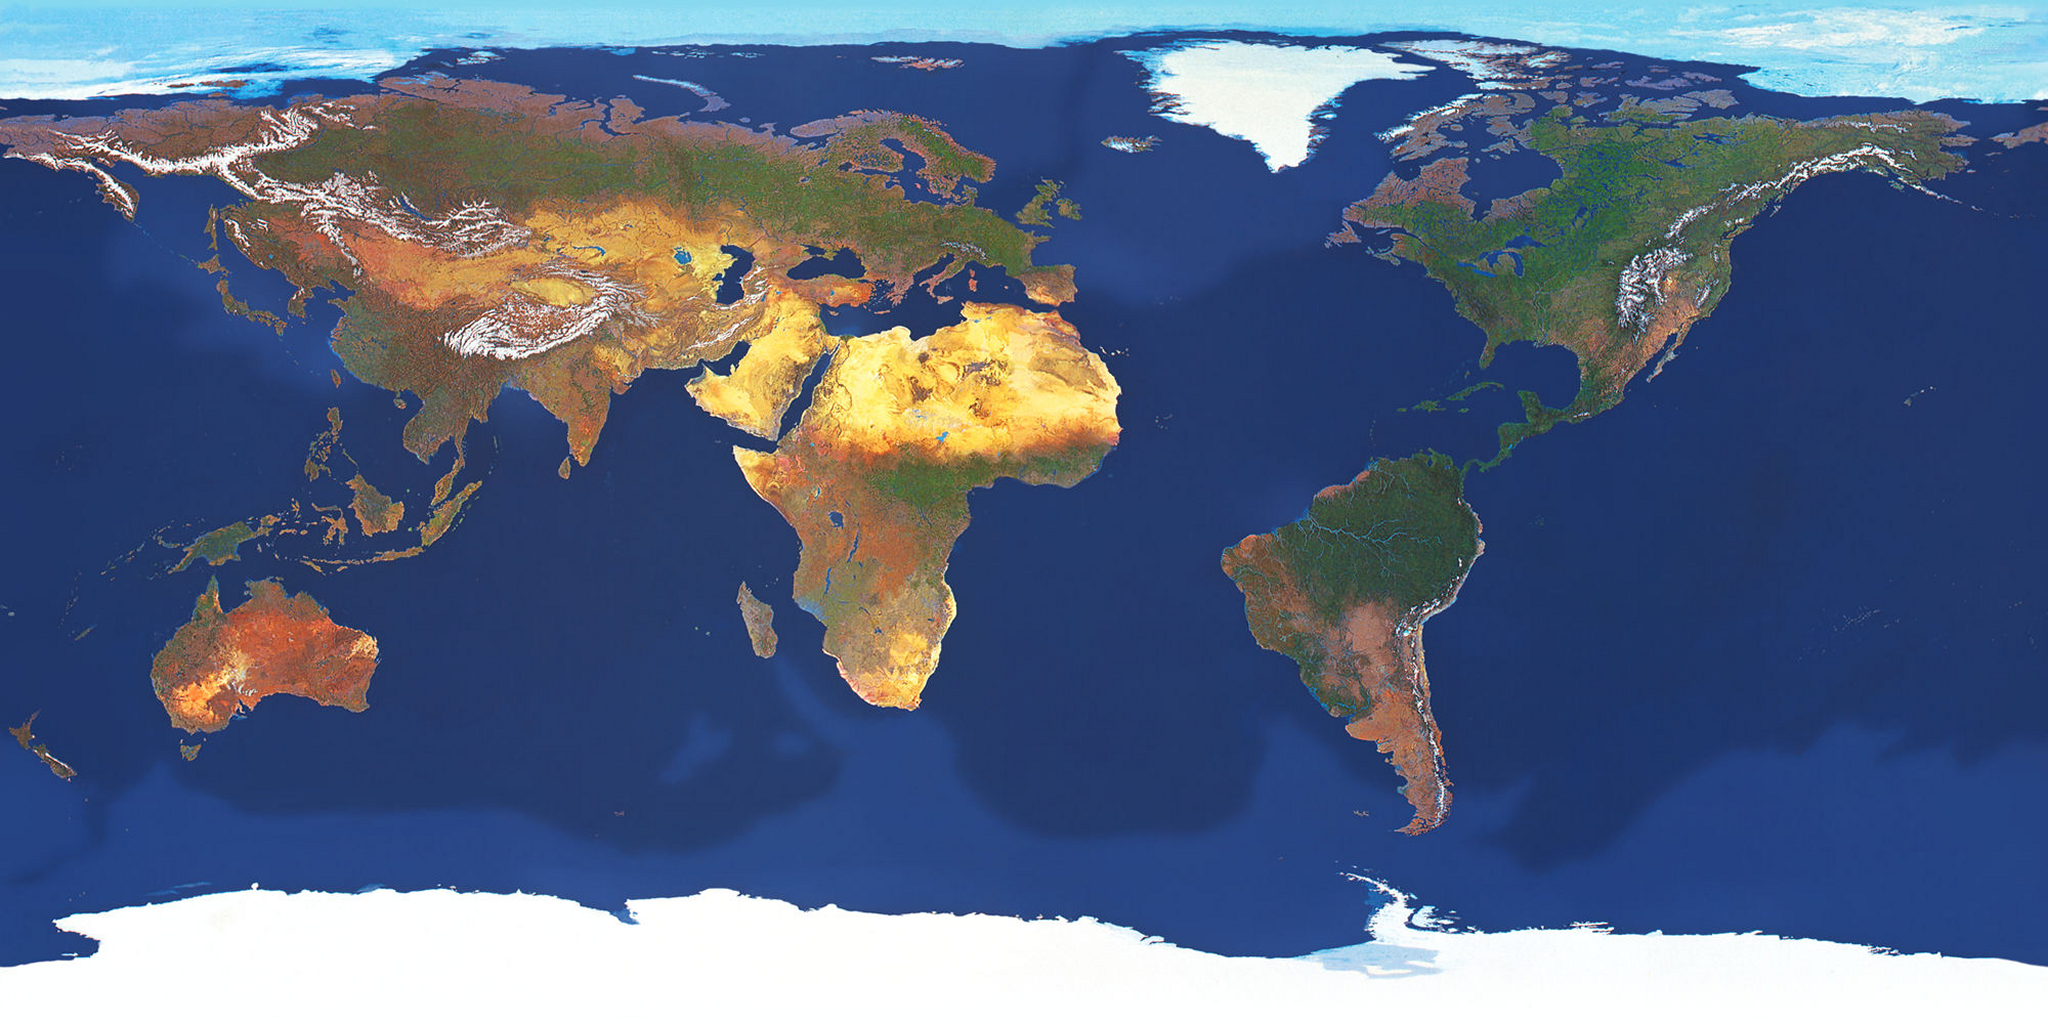
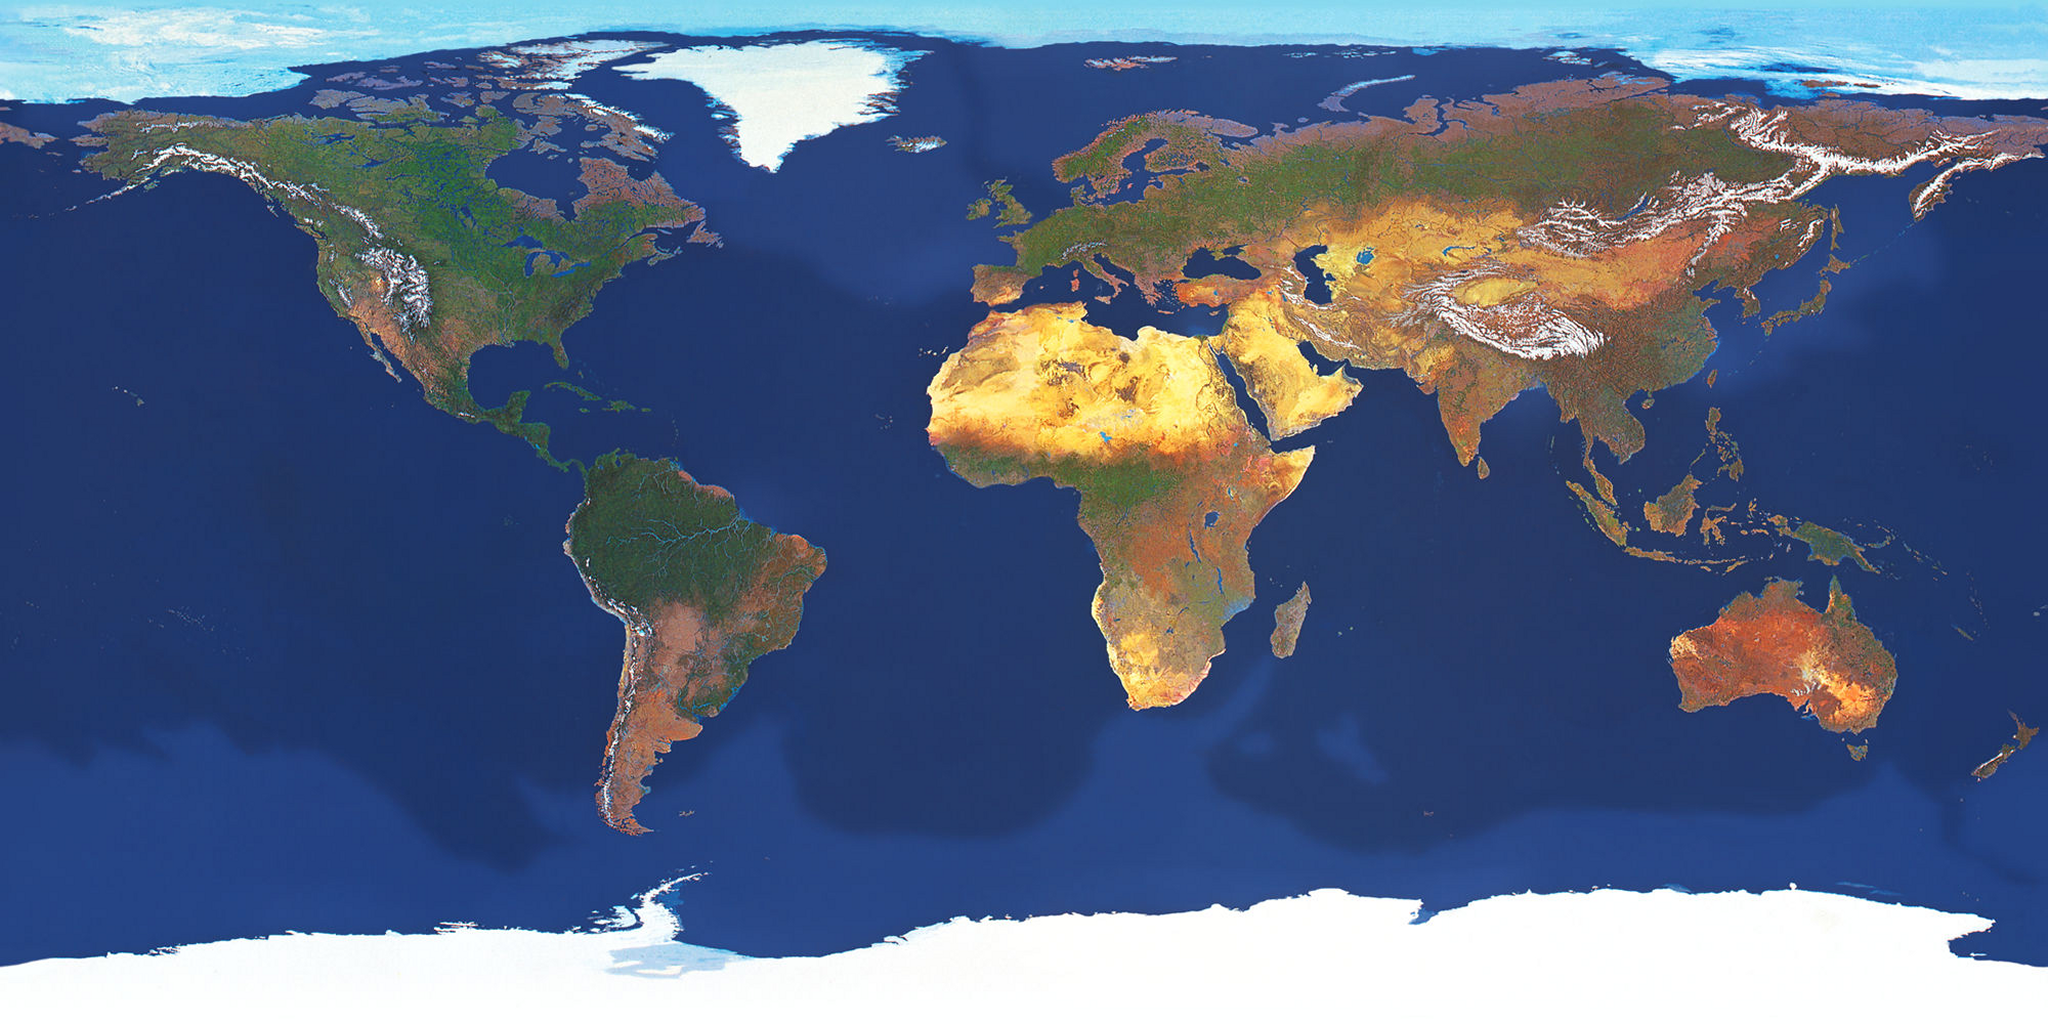
earth working properly

diff --git a/earth/earth.cpp b/earth/earth.cpp
@@ -1,5 +1,4 @@
 #include "widget.h"
-#include <QDateTime>
 /*
 todo:
 1. 
@@ -29,10 +28,13 @@ void Earth::initializeGL()
     glBlendFunc (GL_SRC_ALPHA, GL_ONE_MINUS_SRC_ALPHA);
 
     glEnable(GL_TEXTURE_2D);
-    earthTexture=bindTexture(QPixmap("earth.png"), GL_TEXTURE_2D);
+    QPixmap& pic=createSurface();
+    earthTexture=bindTexture(pic, GL_TEXTURE_2D);
+    delete &pic;
+
     glBindTexture(GL_TEXTURE_2D, earthTexture);
+
     glShadeModel(GL_SMOOTH);
-    qDebug()<<QDateTime::currentDateTimeUtc();
 }
 
 void Earth::createObjects()
@@ -46,8 +48,40 @@ void Earth::createObjects()
     glClear(GL_COLOR_BUFFER_BIT | GL_DEPTH_BUFFER_BIT );
     glEnable ( GL_TEXTURE_2D );
     glBindTexture ( GL_TEXTURE_2D, earthTexture);
-    glRotatef(90,1,0,0);
-    gluSphere(quadratic, 0.9, 36, 72);
     glRotatef(-90,1,0,0);
+    gluSphere(quadratic, 0.9, 36, 72);
+    glRotatef(90,1,0,0);
     glDisable(GL_TEXTURE_2D);
+}
+
+QPixmap& Earth::createSurface()
+{
+    QDateTime time=QDateTime::currentDateTimeUtc();
+    int utcMinutes=time.time().hour()*60+time.time().minute();
+    //calculate the rect based on the utcMinutes
+    //utc=[0-1440]
+    int x=2048-(2048/60/24*utcMinutes)+1650;//split line
+    if(x>2048)
+        x-=2048;
+    int x1=x+1024;
+    if(x1>2048)
+        x1-=2048;
+    qDebug()<<utcMinutes<<x<<x1;
+    QRect rect1,rect2;
+    if(x<x1)
+    {
+        rect1.setRect(0,0,x,1024);
+        rect2.setRect(x1,0,2048-x1,1024);
+    }
+    if(x>x1)
+    {
+        rect1.setRect(x1,0,x-x1,1024);
+        rect2.setRect(0,0,0,0);
+    }
+    QPixmap* day=new QPixmap("earth.png");
+    QPixmap night("night.png");
+    QPainter painter(day);
+    painter.drawPixmap(rect1, night, rect1);
+    painter.drawPixmap(rect2, night, rect1);
+    return *day;
 }

diff --git a/earth/widget.h b/earth/widget.h
@@ -3,6 +3,8 @@
 #include <QtGui>
 #include <QGLWidget>
 #include <GL/glut.h>
+#include <QPainter>
+#include <QDateTime>
 
 class DesktopGadget : public QGLWidget
 {
@@ -53,6 +55,7 @@ class Earth : public DesktopGadget
     protected:
         void createObjects();
         void initializeGL();
+        QPixmap& createSurface();
     private:
         GLuint earthTexture;
 };
